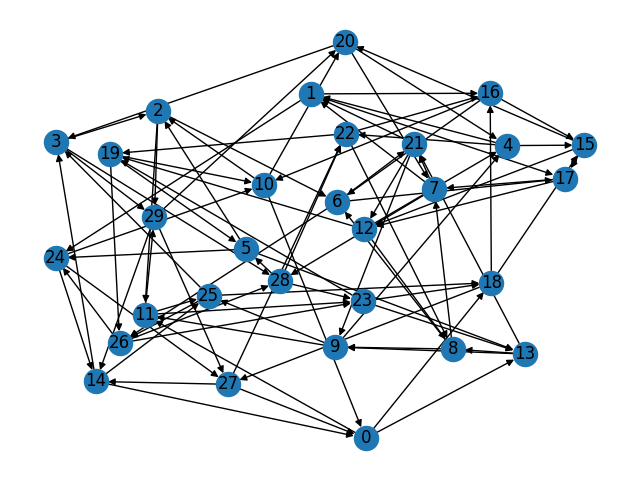
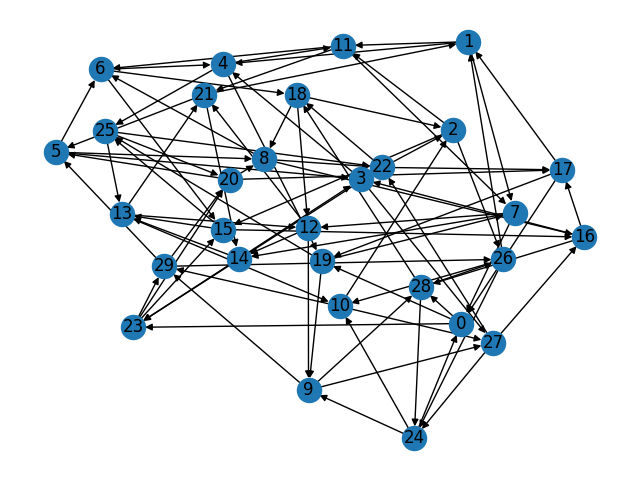
added new edge finding method of targeting graph generation

Changed region(s): [[0.0625, 0.0625, 0.9375, 0.9375], [0.8438, 0.5625, 0.875, 0.5938]]

diff --git a/autoumpire/targeting.py b/autoumpire/targeting.py
@@ -4,55 +4,44 @@ import networkx as nx
 import matplotlib.pyplot as plt
 import sys
 
-seed = 6985696973381347607
-# seed = random.randrange(sys.maxsize)
+#seed = 6985696973381347607
+seed = random.randrange(sys.maxsize)
 random.seed(seed)
 
 class TargetingGraph:
     """
-    Graph of which players are targeting who
+    Object containing a regular 3-degree directed graph (3 in-degrees, 3 out-degrees per node)
     """
     def __init__(self) -> None:
-        self.players = []
         self.target_graph = nx.DiGraph()
-        self.targets = 3
 
     def generate_graph(self, player_list):
+
+        #add nodes to graph
         self.target_graph.add_nodes_from(player_list)
 
-        non_saturated_nodes = player_list.copy()
+        #list of all possible edges, and randomised
+        possible_edges = [(u,v) for u in self.target_graph for v in self.target_graph if u != v]
+        random.shuffle(possible_edges)
 
-        #round 1
-        self.target_graph.add_edges_from(list(self.build_edge(non_saturated_nodes).edges))
-        #round 2
-        self.target_graph.add_edges_from(list(self.build_edge(non_saturated_nodes).edges))
-        #round 3
-        self.target_graph.add_edges_from(list(self.build_edge(non_saturated_nodes).edges))
+        #tracking number of in and out degrees for each node
+        out_degrees = {node: 0 for node in self.target_graph.nodes}
+        in_degrees = {node: 0 for node in self.target_graph.nodes}
 
+        #checks each edge and see if they are valid additions
+        for u, v in possible_edges:
+            if (v,u) not in self.target_graph.edges and out_degrees[u] < 3 and in_degrees[v] <3:
+                self.target_graph.add_edge(u,v)
+                #print(f"added edge ({u},{v})")
+                out_degrees[u] += 1
+                in_degrees[v] += 1
+                
+            if all(deg == 3 for deg in out_degrees.values()) and all(deg == 3 for deg in in_degrees.values()):
+                break
+
+        self.check_graph()
         nx.draw(self.target_graph, with_labels = True)
         plt.savefig("target_graph.png")
-
-    def build_edge(self, player_list):
-        working_graph = self.target_graph.copy()
-        #print(len(list(working_graph.edges())))
-  
-        for player in player_list:
-            working_node_list = player_list.copy()
-            working_node_list.remove(player) #so cannot form an edge to itself
-            for node in player_list:
-                if node in working_node_list:
-                    if len(list(working_graph.predecessors(node))) >= self.targets: #removes all nodes already got 3 players targeting it
-                        working_node_list.remove(node)
-                    elif player in list(working_graph.successors(node)):
-                        working_node_list.remove(node)
-                
-            if len(working_node_list) != 0:
-                target = random.choice(working_node_list)
-                working_graph.add_edge(player, target)
-            else:
-                print(f"No available valid targets for node {player}")
-
-        return(working_graph)
 
     def find_all_neighbors(self, node):
         return nx.all_neighbors(self.target_graph, node)
@@ -66,23 +55,37 @@ class TargetingGraph:
     def find_all_edges(self):
         return self.target_graph.edges()
     
-    def check_num_targets_all(self):
+    def check_graph(self):
         """
-        Checks if all nodes have the right number of predecessors and successors
+        Checks if all nodes satisfy the following conditions:
+        1) Does not target itself
+        2) Does not target another node targeting it (bidirectional)
+        3) Has exactly 3 in-degrees (predecessors) and 3 out-degrees (successors)
         """
+
         print("Seed was:", seed)
-        count = 0
+        err_count = 0
+
+        
+        for (u,v) in self.target_graph.edges:
+            if u == v: #No self targeting
+                print(f"Connection error: edge ({u},{v}) targets itself")
+                err_count += 1
+            elif (v,u) in self.target_graph.edges: #no bidirectional edge
+                print(f"Connection error: edge ({u},{v}) is bidirectional")
+                err_count += 1
+
         for node in self.target_graph.nodes():
             if len(list(self.find_successors(node))) == 3 and len(list(self.find_predecessors(node))) == 3:
                 print(f"node {node} - correct")
             else:
                 print(f"node {node} - incorrect: successors = {len(list(self.find_successors(node)))}, predecessors = {len(list(self.find_predecessors(node)))}")
-                count += 1
+                err_count += 1
         
-        if count == 0:
-            return True 
+        if err_count == 0:
+            return True
         else:
-            print(count)
+            print(f"Error count: {err_count}")
             return False
 
 

diff --git a/run.py b/run.py
@@ -6,12 +6,10 @@ import matplotlib.pyplot as plt
 
 
 players_list = list(range(0,30))
-new_game = models.Game(players_list)
 
 current_targeting = targeting.TargetingGraph()
-current_targeting.generate_graph(new_game.players)
+current_targeting.generate_graph(players_list)
 print(len(list(current_targeting.find_all_edges())))
-current_targeting.check_num_targets_all()
 
 
 def find_solution_graph(node_list):
